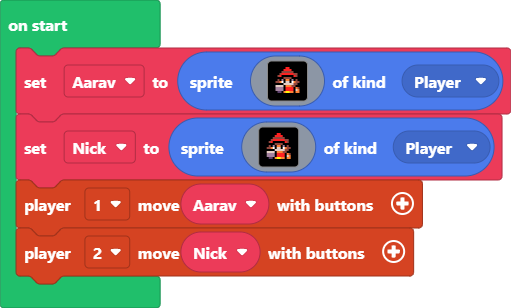
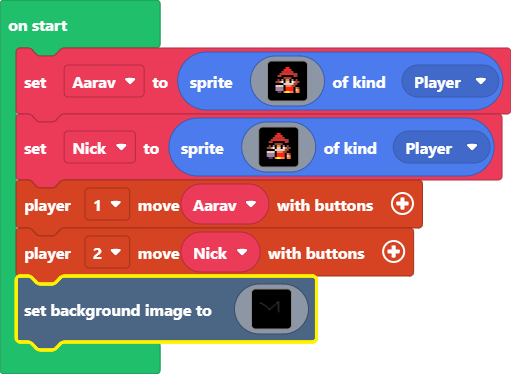
Update main.blocks, main.ts

diff --git a/main.ts b/main.ts
@@ -36,3 +36,125 @@ let Nick = sprites.create(img`
     `, SpriteKind.Player)
 controller.player1.moveSprite(Aarav)
 controller.player2.moveSprite(Nick)
+scene.setBackgroundImage(img`
+    ................................................................................................................................................................
+    ................................................................................................................................................................
+    ................................................................................................................................................................
+    ................................................................................................................................................................
+    ................................................................................................................................................................
+    ................................................................................................................................................................
+    ................................................................................................................................................................
+    ................................................................................................................................................................
+    ................................................................................................................................................................
+    ................................................................................................................................................................
+    ................................................................................................................................................................
+    ................................................................................................................................................................
+    ................................................................................................................................................................
+    ................................................................................................................................................................
+    ................................................................................................................................................................
+    ................................................................................................................................................................
+    ................................................................................................................................................................
+    ................................................................................................................................................................
+    ................................................................................................................................................................
+    ................................................................................................................................................................
+    ................................................................................................................................................................
+    ................................................................................................................................................................
+    ................................................................................................................................................................
+    ................................................................................................................111.............................................
+    ...............................................................................................................1..1.............................................
+    ..............................................................................................................1...1.............................................
+    .............................................................................................................1....1.............................................
+    ............................................................................................................1.....1.............................................
+    ............................................................................................................1.....1.............................................
+    ...........................................................................................................1......1.............................................
+    ......................1111111.............................................................................1.......1.............................................
+    .............................11..........................................................................1........1.............................................
+    ...............................1........................................................................1.........1.............................................
+    ................................11.....................................................................1..........1.............................................
+    ..................................11..................................................................1...........1.............................................
+    ....................................1.................................................................1...........1.............................................
+    .....................................11..............................................................1............1.............................................
+    .......................................1............................................................1..............1............................................
+    ........................................11.........................................................1...............1............................................
+    ..........................................11......................................................1................1............................................
+    ............................................1...................................................11.................1............................................
+    .............................................11................................................1...................1............................................
+    ...............................................1..............................................1....................1............................................
+    ................................................11...........................................1.....................1............................................
+    ..................................................1.........................................1......................1............................................
+    ...................................................11.....................................11.......................1............................................
+    .....................................................11..................................1.........................1............................................
+    .......................................................1................................1..........................1............................................
+    ........................................................11.............................1...........................1............................................
+    ..........................................................1...........................1............................1............................................
+    ...........................................................1........................11.............................1............................................
+    ............................................................1......................1...............................1............................................
+    .............................................................1....................1................................1............................................
+    .............................................................1...................1.................................1............................................
+    ..............................................................1.................1..................................1............................................
+    ...............................................................1..............11...................................1............................................
+    ................................................................1............1.....................................1............................................
+    .................................................................1..........1......................................1............................................
+    .................................................................1.........1.......................................1............................................
+    ..................................................................1.......1........................................1............................................
+    ..................................................................1.....11.........................................1............................................
+    ...................................................................1...1...........................................1............................................
+    ....................................................................1.1............................................1............................................
+    .....................................................................1.............................................1............................................
+    ....................................................................11.............................................1............................................
+    ...................................................................................................................1............................................
+    ...................................................................................................................1............................................
+    ....................................................................................................................1...........................................
+    ....................................................................................................................1...........................................
+    ....................................................................................................................1...........................................
+    ....................................................................................................................1...........................................
+    ....................................................................................................................1...........................................
+    ....................................................................................................................1...........................................
+    .....................................................................................................................1..........................................
+    .....................................................................................................................1..........................................
+    ....................................................................................................................11..........................................
+    ................................................................................................................................................................
+    ................................................................................................................................................................
+    ................................................................................................................................................................
+    ................................................................................................................................................................
+    ................................................................................................................................................................
+    ................................................................................................................................................................
+    ................................................................................................................................................................
+    ................................................................................................................................................................
+    ................................................................................................................................................................
+    ................................................................................................................................................................
+    ................................................................................................................................................................
+    ................................................................................................................................................................
+    ................................................................................................................................................................
+    ................................................................................................................................................................
+    ................................................................................................................................................................
+    ................................................................................................................................................................
+    ................................................................................................................................................................
+    ................................................................................................................................................................
+    ................................................................................................................................................................
+    ................................................................................................................................................................
+    ................................................................................................................................................................
+    ................................................................................................................................................................
+    ................................................................................................................................................................
+    ................................................................................................................................................................
+    ................................................................................................................................................................
+    ................................................................................................................................................................
+    ................................................................................................................................................................
+    ................................................................................................................................................................
+    ................................................................................................................................................................
+    ................................................................................................................................................................
+    ................................................................................................................................................................
+    ................................................................................................................................................................
+    ................................................................................................................................................................
+    ................................................................................................................................................................
+    ................................................................................................................................................................
+    ................................................................................................................................................................
+    ................................................................................................................................................................
+    ................................................................................................................................................................
+    ................................................................................................................................................................
+    ................................................................................................................................................................
+    ................................................................................................................................................................
+    ................................................................................................................................................................
+    ................................................................................................................................................................
+    ................................................................................................................................................................
+    `)
